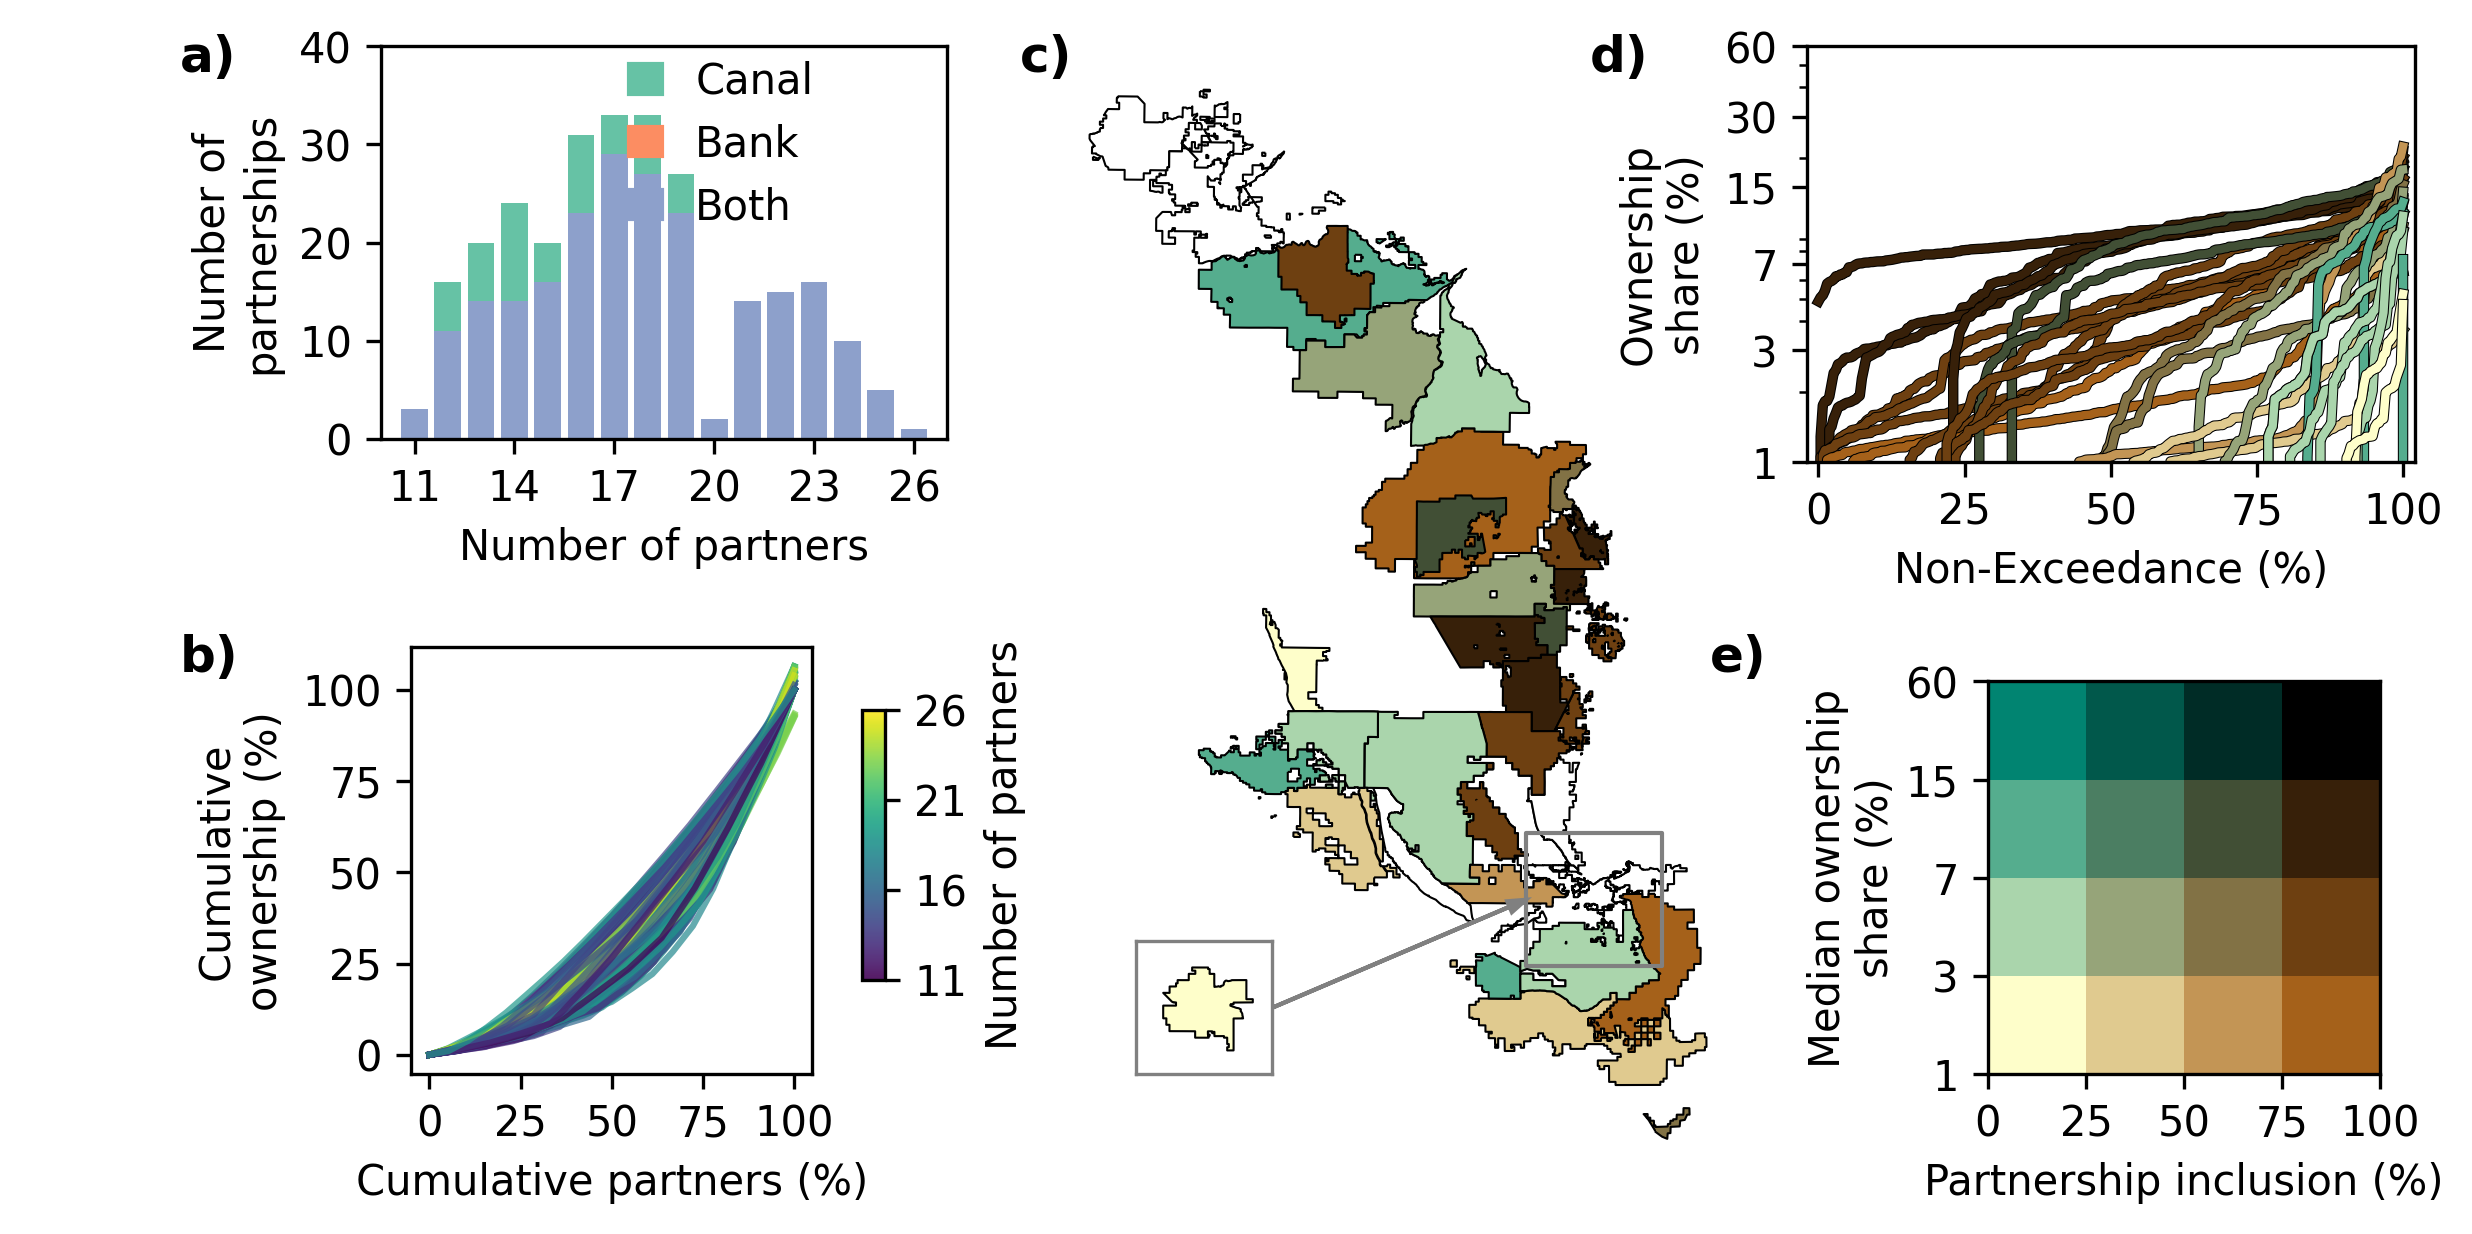
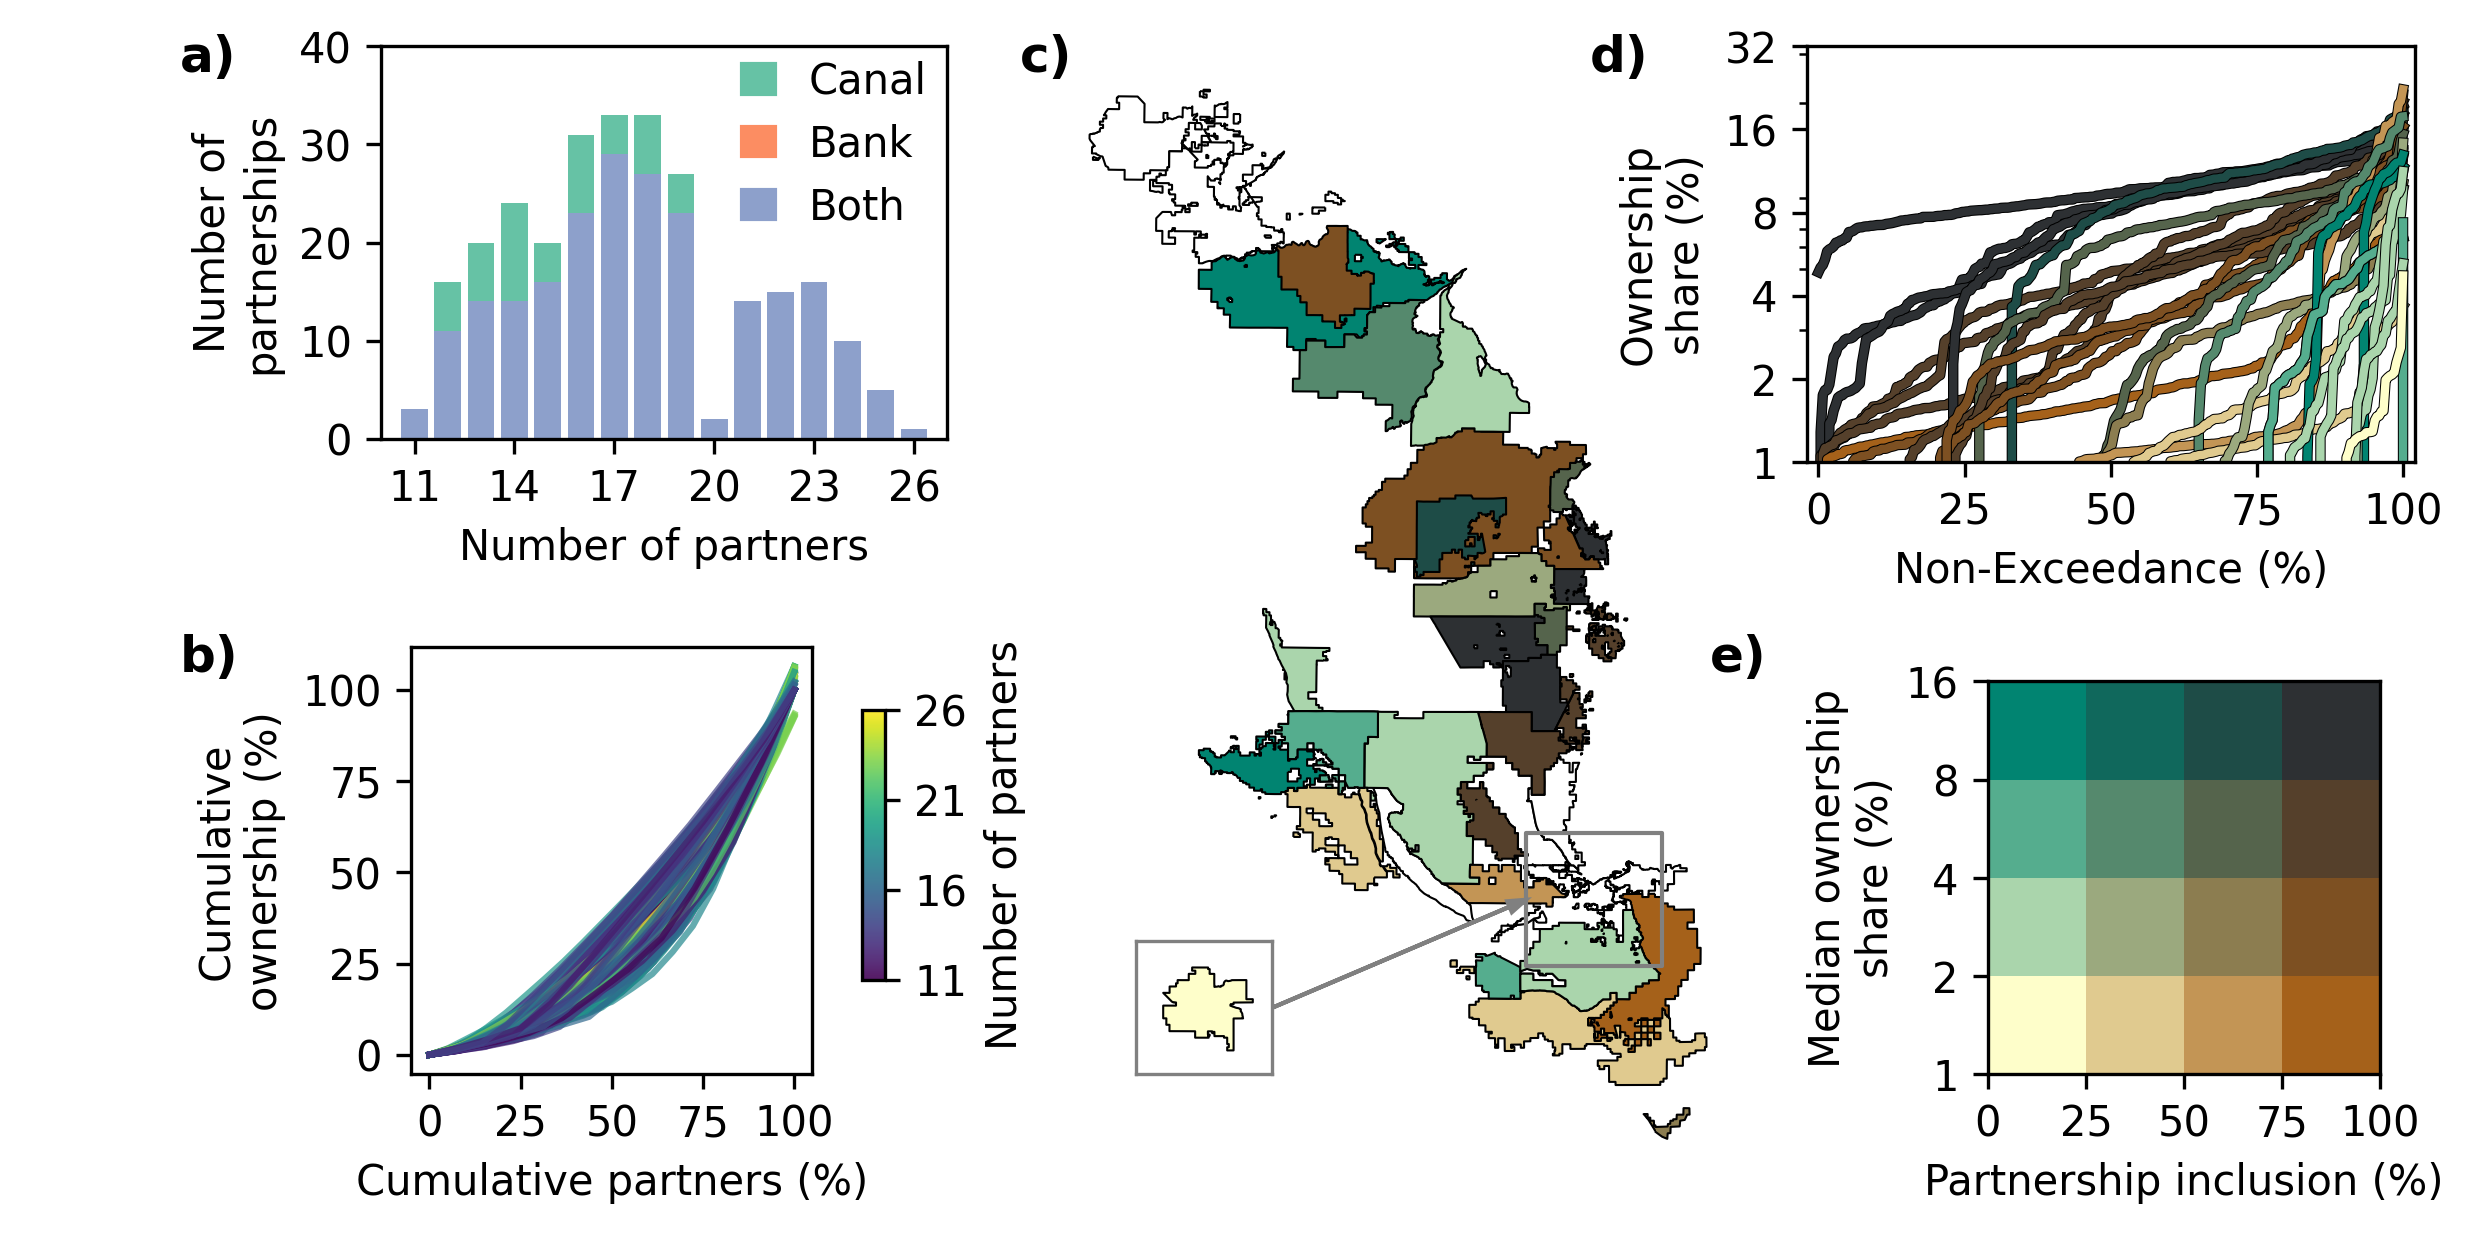
update choropleth fig

diff --git a/MORDM_experiment/paper1/fig_functions.py b/MORDM_experiment/paper1/fig_functions.py
@@ -507,7 +507,7 @@ def get_bivariate_colorlist(grid_size=4):
         rgb = Color(*rgb)
         return rgb
 
-    hex_color_corners = ['#ffffcb', '#a6611a', '#018571', '#000000']
+    hex_color_corners = ['#ffffcb', '#a6611a', '#018571', '#2D3033']# '#000000']
     c00 = hex_to_Color(hex_color_corners[0])
     c10 = hex_to_Color(hex_color_corners[1])
     c01 = hex_to_Color(hex_color_corners[2])
@@ -2117,10 +2117,8 @@ def plot_share_distributions_bivariateChoropleth(results, water_providers, state
 
     ### bivariate color palette representing the fraction of optimal tradeoff parterships a water provider
     ### participates in, as well as its median share within those partnerships
-    share_bounds = [0.03, 0.07, 0.15, 0.6]
-    share_bound_labels = ['1-3', '3-7', '7-15', '15+']
+    share_bounds = [0.02, 0.04, 0.08, 0.16]
     inclusion_bounds = [0.25, 0.5, 0.75, 1]
-    inclusion_bound_labels = ['0-25', '25-50', '50-75', '75-100']
     hex_color_corners, colorlist = get_bivariate_colorlist(len(share_bounds))
     def get_bivariate_choropleth_color(district, inclusion_frac, median_share):
         d = 'share_' + district
@@ -2231,10 +2229,10 @@ def plot_share_distributions_bivariateChoropleth(results, water_providers, state
             pass
 
     _ = axin3.set_xlim([-2, 102])
-    _ = axin3.set_ylim([1, 30])
+    _ = axin3.set_ylim([1, 32])
     _ = axin3.semilogy()
     _ = axin3.set_xticks(range(0, 101, 25), range(0, 101, 25), fontsize=fontsize)
-    _ = axin3.set_yticks([1, 3, 7, 15, 30, 60], [1, 3, 7, 15, 30, 60], fontsize=fontsize)
+    _ = axin3.set_yticks([1, 2, 4, 8, 16, 32], [1, 2, 4, 8, 16, 32], fontsize=fontsize)
     _ = axin3.set_xlabel('Non-Exceedance (%)', fontsize=fontsize)
     _ = axin3.set_ylabel('Ownership\nshare (%)', fontsize=fontsize)
     _ = axin3.patch.set_alpha(0.)
@@ -2257,7 +2255,7 @@ def plot_share_distributions_bivariateChoropleth(results, water_providers, state
     leg = [Patch(color=cols_cbrewer[0], label='Canal'),
            Patch(color=cols_cbrewer[1], label='Bank'),
            Patch(color=cols_cbrewer[2], label='Both')]
-    _ = axin4.legend(handles=leg, loc='center', bbox_to_anchor=[0.6, 0.75], ncol=1, frameon=False, fontsize=fontsize,
+    _ = axin4.legend(handles=leg, loc='center', bbox_to_anchor=[0.8, 0.75], ncol=1, frameon=False, fontsize=fontsize,
                      handlelength=0.8)
 
     ### gini-type plot of cumulative partners vs partnerships

diff --git a/MORDM_experiment/paper1/make_figs.py b/MORDM_experiment/paper1/make_figs.py
@@ -80,19 +80,19 @@ water_providers, states, canals_fkc, canals_other, tlb, sjr, kings, res_gdf = fi
 # print_completion(f'3-part partner-level disagg  performance figure for status quo')
 
 
-### Note: The rest of figures only use the results from optimization - exclude statusquo solutions
+## Note: The rest of figures only use the results from optimization - exclude statusquo solutions
 results = results.loc[['statusquo' not in s for s in results['label']],:]
 
-### plot 5-part figure of share distributions in optimal tradeoff partnership with bivariate choropleth map.
-# fig_functions.plot_share_distributions_bivariateChoropleth(results, water_providers, states, canals_fkc, canals_other,
-#                                                            tlb, sjr, kings, res_gdf)
-# print_completion(f'5-part figure for ownership share distributions')
+## plot 5-part figure of share distributions in optimal tradeoff partnership with bivariate choropleth map.
+fig_functions.plot_share_distributions_bivariateChoropleth(results, water_providers, states, canals_fkc, canals_other,
+                                                           tlb, sjr, kings, res_gdf)
+print_completion(f'5-part figure for ownership share distributions')
 
-### plot ownership share concentration across optimal tradeoff partnerships
+### NOTE: dont think we need this anymore - plot ownership share concentration across optimal tradeoff partnerships
 # fig_functions.plot_ownership_share_concentrations(results, water_providers)
 # print_completion(f'ownership share concentration figure')
 
-fig_functions.plot_moo_metrics()
-print_completion(f'optimization metrics figure')
+# fig_functions.plot_moo_metrics()
+# print_completion(f'optimization metrics figure')
 
 
